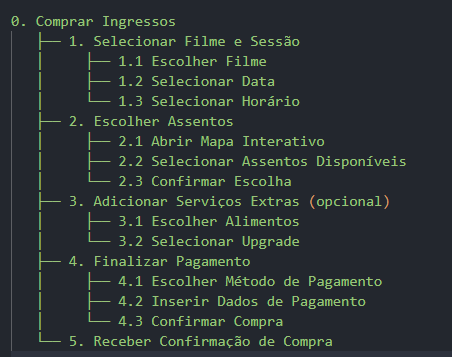
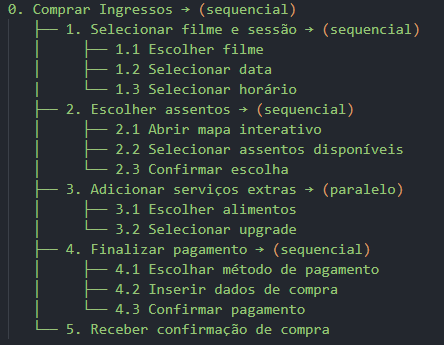
hta e ctt arrumados

diff --git a/docs/Analise-de-requisitos/analise-de-tarefas.md b/docs/Analise-de-requisitos/analise-de-tarefas.md
@@ -21,6 +21,12 @@ Para analisar as tarefas realizadas pelos usuários do Cinemark, utilizamos duas
 
 ![Diagrma HTA - Compra Ingresso](../assets/ferramentas/hta.png)
 
+Resumo das Relações
+
+- Sequencial (>): Tarefa depende da anterior para ser executada.
+- Paralelo (+): Tarefas podem ser feitas ao mesmo tempo.
+- Seleção (/): O usuário escolhe entre uma opção ou outra.
+
 ### **Análise Hierárquica de Tarefas**
 
 **Análise HTA 1: Comprar ingressos**
@@ -54,8 +60,8 @@ O Cinemark disponibiliza a funcionalidade de reserva de salas para eventos parti
 |      1. Selecionar local       |       1.1 > 1.2       |                                        Seguir a sequência: escolher cidade > selecionar unidade                                        |                          Usuários podem não encontrar rapidamente o local desejado. Incluir filtros por região e lista de unidades próximas.                          |
 |   2. Escolher data e horário   |       2.1 > 2.2       |                                   Seguir a sequência: informar data > selecionar horário disponível                                    |                Horários indisponíveis podem causar frustração ao usuário. Apresentar apenas os horários livres e permitir consulta rápida das opções.                 |
 |  3. Selecionar tipo de evento  |          3.1          |                                Escolher tipo de evento(corporativo, exibição privada) e personalização                                 |                                                                                   -                                                                                   |
-|  4. Preencher dados pessoais   | 4.1 > 4.2 > 4.3 > 4.4 |        Seguir a sequência: Inserir nome completo > inserir e-mail > inserir telefone > inserir informações adicionais(opcional)        |                                                                                   -                                                                                   |
-|       5. Efetuar reserva       |    5.1 > 5.2 > 5.3    | Seguir a sequência: escolher forma de pagamento(pagamento ou orçamento) > inserir dados do pagamento(se aplicável) > confirmar reserva | Usuários podem não se sentir seguros ao inserir dados financeiros. Garantir que a interface transmita segurança, incluindo selos de proteção de dados e criptografia. |
+|  4. Preencher dados pessoais   | 4.1 > 4.2 > 4.3 + 4.4 |        Seguir a sequência: Inserir nome completo > inserir e-mail > inserir telefone > inserir informações adicionais(opcional)        |                                                                                   -                                                                                   |
+|       5. Efetuar reserva       |    5.1 / 5.2 > 5.3    | Seguir a sequência: escolher forma de pagamento(pagamento ou orçamento) > inserir dados do pagamento(se aplicável) > confirmar reserva | Usuários podem não se sentir seguros ao inserir dados financeiros. Garantir que a interface transmita segurança, incluindo selos de proteção de dados e criptografia. |
 
 Autor: [Anne de Capdeville](https://github.com/nanecapde).
 
@@ -83,12 +89,18 @@ Autor: [Anne de Capdeville](https://github.com/nanecapde).
 
 O Voucher Corporativo é uma funcionalidade voltada para empresas que desejam adquirir ingressos em grande quantidade para colaboradores ou parceiros.
 
-|            Objetivos/Operações             | Relações  |                          Problemas e Recomendações                           |
-| :----------------------------------------: | :-------: | :--------------------------------------------------------------------------: |
-|     0. Adquirir vouchers corporativos      | 1 > 2 > 3 |     Problema: Falta de transparência no processo de entrega dos vouchers     |
-| 1. Selecionar quantidade e tipo de voucher |           |        Plano: Escolher entre vouchers de ingressos normais ou premium        |
-|        2. Informar dados da empresa        |           | Plano: Preencher informações da empresa, como CNPJ e endereço de faturamento |
-|           3. Confirmar pagamento           |           |          Plano: Escolher forma de pagamento e concluir a transação           |
+|            Objetivos/Operações             |    Relações     |                                                                       Plano                                                                       |                                                       Problemas e Recomendações                                                       |
+| :----------------------------------------: | :-------------: | :-----------------------------------------------------------------------------------------------------------------------------------------------: | :-----------------------------------------------------------------------------------------------------------------------------------: |
+|     0. Adquirir Vouchers Corporativos      |  0 > 1 > 2 > 3  | Seguir a sequência: selecionar quantidade e tipo de voucher > preencher informações essenciais > escolher forma de pagamento e concluir transação |                                                                   -                                                                   |
+| 1. Selecionar quantidade e tipo de voucher |    1.1 > 1.2    |                                 Seguir a sequência: escolher quantidade de vouchers > selecionar tipo de voucher                                  | Falta de informações claras sobre as diferenças entre os tipos de voucher. Apresentar descrições e comparações dos tipos de vouchers. |
+|        2. Informar dados da empresa        | 2.1 > 2.2 > 2.3 |                           Seguir a sequência: inserir CNPJ > Inserir nome da empresa > Inserir endereço de faturamento                            |    Usuários podem não entender quais informações são obrigatórias. Implementar validação e mensagens de orientação para os campos.    |
+|           3. Confirmar pagamento           | 3.1 > 3.2 > 3.3 |                        Seguir a sequência: escolher forma de pagamento > inserir dados de pagamento > confirmar transação                         |  Falta de transparência sobre o prazo de entrega dos vouchers. Exibir informações claras sobre a entrega antes da confirmação final.  |
+
+Autor: [Anne de Capdeville](https://github.com/nanecapde).
+
+Segue o Diagrama HTA:
+
+![Diagrma HTA - Vouchers Corporativos](../img/htavoucher.png)
 
 Autor: [Anne de Capdeville](https://github.com/nanecapde).
 
@@ -159,14 +171,20 @@ Fluxo da Tarefa:
 
 Os vouchers corporativos oferecem aos funcionários benefícios como ingressos ou descontos para sessões de cinema. O processo de resgatar um voucher corporativo pode ser feito através do site, sendo necessário um código de acesso fornecido pela empresa.
 
-Fluxo da Tarefa:
+|            Objetivos/Operações             | Relações |                                                                       Plano                                                                       |                                                       Problemas e Recomendações                                                       |
+| :----------------------------------------: | :------: | :-----------------------------------------------------------------------------------------------------------------------------------------------: | :-----------------------------------------------------------------------------------------------------------------------------------: |
+|     0. Adquirir Vouchers Corporativos      |    >>    | Seguir a sequência: selecionar quantidade e tipo de voucher > preencher informações essenciais > escolher forma de pagamento e concluir transação |                                                                   -                                                                   |
+| 1. Selecionar quantidade e tipo de voucher |    >>    |                                 Seguir a sequência: escolher quantidade de vouchers > selecionar tipo de voucher                                  | Falta de informações claras sobre as diferenças entre os tipos de voucher. Apresentar descrições e comparações dos tipos de vouchers. |
+|        2. Informar dados da empresa        |    >>    |                           Seguir a sequência: inserir CNPJ > Inserir nome da empresa > Inserir endereço de faturamento                            |    Usuários podem não entender quais informações são obrigatórias. Implementar validação e mensagens de orientação para os campos.    |
+|           3. Confirmar pagamento           |    >>    |                        Seguir a sequência: escolher forma de pagamento > inserir dados de pagamento > confirmar transação                         |  Falta de transparência sobre o prazo de entrega dos vouchers. Exibir informações claras sobre a entrega antes da confirmação final.  |
 
-- **O usuário acessa a página de resgate de vouchers corporativos.**
-- **O usuário insere o código do voucher.**
-- **O sistema valida o código.**
-- **O sistema exibe os ingressos disponíveis para resgatar.**
-- **O usuário escolhe os ingressos desejados e confirma o resgate.**
-- **O sistema processa o resgate e envia a confirmação por e-mail ou mensagem.**
+Autor: [Anne de Capdeville](https://github.com/nanecapde).
+
+Segue o Diagrama CTT:
+
+![Diagrma CTT - Reserva de Salas](../img/cttvoucher.png)
+
+Autor: [Anne de Capdeville](https://github.com/nanecapde).
 
 ## Bibliografia
 

diff --git a/docs/Analise-de-requisitos/aspectos-eticos.md b/docs/Analise-de-requisitos/aspectos-eticos.md
@@ -6,36 +6,49 @@ O Termo de Consentimento, além de ser um requisito ético e legal, estabelece u
 
 ---
 
-### ***Termo de Consentimento Livre e Esclarecido (TCLE)*** 
+### **_Termo de Consentimento Livre e Esclarecido (TCLE)_**
 
-**Título da Pesquisa**: Levantamento do Perfil de Usuários para o Site do Cinemark  
+**Título da Pesquisa**: Levantamento do Perfil de Usuários para o Site do Cinemark
 
-**Integrantes Responsáveis**:  
-- Ana Joyce Guedes Amorim da Silva – [anajoyceguedesamorimdasilva@gmail.com]  
+**Integrantes Responsáveis**:
+
+- Ana Joyce Guedes Amorim da Silva – [anajoyceguedesamorimdasilva@gmail.com]
 
 **Instituição Envolvida**: Universidade de Brasília - Gama [UnB/FCTE]
 
 **Finalidade da Pesquisa**  
-Este estudo tem como objetivo compreender o perfil dos usuários do site do Cinemark para melhorar a experiência de navegação, personalizar serviços e oferecer conteúdos alinhados aos interesses dos usuários. A participação envolve responder a um braindstorm guiado sobre preferências de filmes e uso de funcionalidades do site.  
+Este estudo tem como objetivo compreender o perfil dos usuários do site do Cinemark para melhorar
+a experiência de navegação, personalizar serviços e oferecer conteúdos alinhados aos interesses
+dos usuários. A participação envolve responder a um brainstorm guiado sobre preferências de filmes
+e uso de funcionalidades do site.
 
 **Procedimentos**  
-Você será convidado(a) a participar de uma reunião online que levará aproximadamente
-15 minutos para ser concluído.  
+Você será convidado(a) a participar de uma reunião online que levará aproximadamente 15 minutos
+para ser concluída.
 
 **Confidencialidade e Privacidade**  
-Todas as informações fornecidas serão mantidas em sigilo e utilizadas exclusivamente para os fins desta pesquisa. Os dados serão anonimizados, garantindo que nenhuma informação pessoal possa ser associada diretamente a você.  
+Todas as informações fornecidas serão mantidas em sigilo e utilizadas exclusivamente para os fins
+desta pesquisa. A presente autorização compreende o uso da minha imagem em materiais
+impressos, digitais, audiovisuais, redes sociais, websites, e quaisquer outros meios de comunicação
+julgados necessários.
 
 **Voluntariedade e Direitos do Participante**  
-Sua participação é voluntária, e você tem o direito de recusar ou desistir a qualquer momento, sem necessidade de justificativa e sem qualquer prejuízo.  
+Sua participação é voluntária, e você tem o direito de recusar ou desistir a qualquer momento, sem
+necessidade de justificativa e sem qualquer prejuízo.
 
 **Riscos e Benefícios**  
-Não há riscos significativos associados à participação nesta pesquisa. Como benefício, sua contribuição ajudará a melhorar o site do Cinemark, promovendo uma experiência mais satisfatória para os usuários.  
+Não há riscos significativos associados à participação nesta pesquisa. Como benefício, sua
+contribuição ajudará a melhorar o site do Cinemark, promovendo uma experiência mais satisfatória
+para os usuários.
 
 **Contato para Dúvidas**  
-Caso tenha dúvidas ou queira mais informações sobre esta pesquisa, entre em contato pelo e-mail: anajoyceguedesamorimdasilva@gmail.com.  
+Caso tenha dúvidas ou queira mais informações sobre esta pesquisa, entre em contato pelo e-mail:
+anajoyceguedesamorimdasilva@gmail.com.
 
 **Termo de Consentimento**  
-Declaro que fui devidamente informado(a) sobre os objetivos, procedimentos e direitos relacionados a esta pesquisa. Estou ciente de que minha participação é voluntária e posso desistir a qualquer momento. Autorizo o uso das informações fornecidas para os fins descritos acima.  
+Declaro que fui devidamente informado(a) sobre os objetivos, procedimentos e direitos relacionados
+a esta pesquisa. Estou ciente de que minha participação é voluntária e posso desistir a qualquer
+momento. Autorizo o uso das informações fornecidas para os fins descritos acima.
 
 **Nome Completo do Participante:**
 
@@ -47,17 +60,18 @@ Declaro que fui devidamente informado(a) sobre os objetivos, procedimentos e dir
 
 ## Bibliografia
 
-BRASIL. Ministério da Saúde. *Resolução nº 466, de 12 de dezembro de 2012*. Diretrizes e normas regulamentadoras de pesquisas envolvendo seres humanos. Brasília: CNS, 2012. Disponível em: <https://conselho.saude.gov.br/resolucoes/2012/Reso466.pdf>. Acesso em: 1 dez. 2024.  
+BRASIL. Ministério da Saúde. _Resolução nº 466, de 12 de dezembro de 2012_. Diretrizes e normas regulamentadoras de pesquisas envolvendo seres humanos. Brasília: CNS, 2012. Disponível em: <https://conselho.saude.gov.br/resolucoes/2012/Reso466.pdf>. Acesso em: 1 dez. 2024.
 
-FRIEDMAN, Batya; HENDRY, David G. *Value Sensitive Design: Shaping Technology with Moral Imagination*. Cambridge: MIT Press, 2019.  
+FRIEDMAN, Batya; HENDRY, David G. _Value Sensitive Design: Shaping Technology with Moral Imagination_. Cambridge: MIT Press, 2019.
 
-GIL, Antonio Carlos. *Métodos e Técnicas de Pesquisa Social*. 6. ed. São Paulo: Atlas, 2008.  
+GIL, Antonio Carlos. _Métodos e Técnicas de Pesquisa Social_. 6. ed. São Paulo: Atlas, 2008.
 
 ---
 
 ## Histórico de versões
 
-| Versão |     Descrição      |                     Autor(es)                     |    Data    |                     Revisor(es)                     | Data de revisão |
-| :----: | :----------------: | :-----------------------------------------------: | :--------: | :-------------------------------------------------: | :-------------: |
-|  1.0   | Criação da página | [Ana Joyce](https://github.com/anajoyceamorim) | 01/12/2024 | [Anne de Capdeville](https://github.com/nanecapde) |   01/12/2024   |
-|  1.1   | Add intro e termo | [Ana Joyce](https://github.com/anajoyceamorim) | 01/12/2024 | [Anne de Capdeville](https://github.com/nanecapde) |   01/12/2024   |
+| Versão |     Descrição     |                     Autor(es)                      |    Data    |                    Revisor(es)                     | Data de revisão |
+| :----: | :---------------: | :------------------------------------------------: | :--------: | :------------------------------------------------: | :-------------: |
+|  1.0   | Criação da página |   [Ana Joyce](https://github.com/anajoyceamorim)   | 01/12/2024 | [Anne de Capdeville](https://github.com/nanecapde) |   01/12/2024    |
+|  1.1   | Add intro e termo |   [Ana Joyce](https://github.com/anajoyceamorim)   | 01/12/2024 | [Anne de Capdeville](https://github.com/nanecapde) |   01/12/2024    |
+|  2.0   | Correções finais  | [Anne de Capdeville](https://github.com/nanecapde) | 06/02/2025 |                                                    |   xx/02/2025    |
